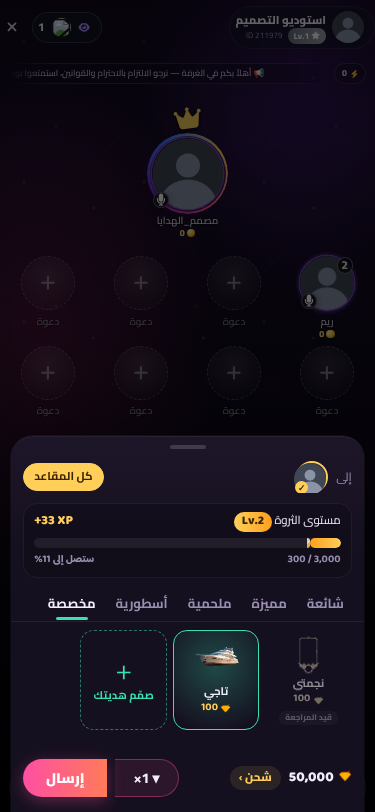
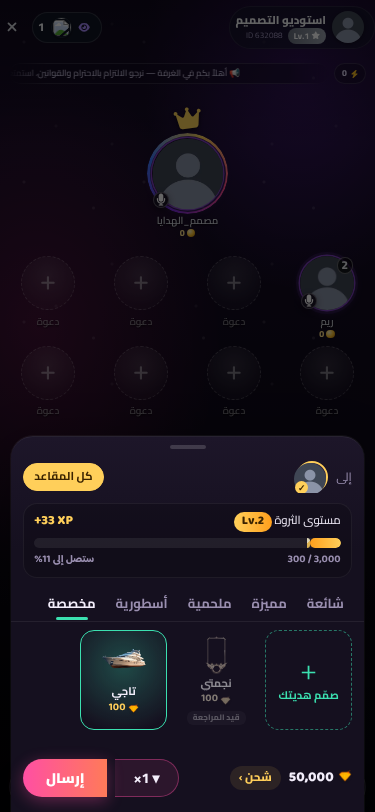
fix(gifts): close double-refund race + review follow-ups (PR #109)
adminReviewCustomGift was find-then-save: it read status, refunded,
then saved the status change afterward, so a double-click or two
admins rejecting at once could refund the design fee twice. Replaced
with a single atomic claim inside a Mongo transaction
(findOneAndUpdate({_id, status:'pending'}, {$set:{...}})) — a second
reviewer gets 409 immediately with no write at all. The refund and
its Transaction entry now run inside that same transaction; sockets,
the bot message, and AdminLog run only after a successful commit, and
the uploaded Cloudinary image is deleted (best effort) once a
rejection is final.

Also: customGiftUpload now catches multer's file-size error itself
instead of falling through to the generic 500 handler, returning a
clear Arabic 400 before any processing; the "+ design your gift" tile
renders first (top-right in RTL, matching the prototype); and the
design modal's pay button no longer wraps to two lines.

Claude-Session: https://claude.ai/code/session_01XrJPY35fNu5NRSzL8WKkMz

diff --git a/server/controllers/customGiftController.js b/server/controllers/customGiftController.js
@@ -4,7 +4,7 @@ const User = require('../models/User');
 const Transaction = require('../models/Transaction');
 const SystemSettings = require('../models/SystemSettings');
 const AdminLog = require('../models/AdminLog');
-const { cloudinary, assertRealType, deleteFromCloudinary } = require('../utils/cloudinary');
+const { cloudinary, assertRealType, deleteFromCloudinary, getPublicIdFromUrl } = require('../utils/cloudinary');
 const { sendBotMessage } = require('../utils/botMessenger');
 
 const MAX_PENDING_PER_USER = 3;
@@ -145,74 +145,100 @@ exports.adminListCustomGifts = async (req, res) => {
     }
 };
 
+// 🛡 إصلاح جذري (مراجعة PR #109 — بند 1 BLOCKER): النسخة السابقة كانت تقرأ status، تسترد
+// الرصيد، ثم تحفظ status لاحقاً — نافذة سباق حقيقية بين القراءة والحفظ. نقرة مزدوجة، أو مديران
+// يرفضان بنفس اللحظة تقريباً، كلاهما يجد status='pending' فيسترد كلاهما الرسم (استرداد مزدوج
+// فعلي). الآن: findOneAndUpdate({_id, status:'pending'}, {$set:{status,...}}) ذرّية واحدة داخل
+// معاملة Mongo — "ادّعاء" الوثيقة والاسترداد (لو رفض) بنفس المعاملة، فيستحيل نجاح طلبين معاً.
+// فشل الادّعاء (null — روجعت مسبقاً) يُرجع 409 فوراً بلا أي كتابة إطلاقاً. الإشعارات
+// (socket/bot/AdminLog) تعمل بعد الالتزام (commit) فقط — best-effort، لا تُسقِط المراجعة نفسها
 exports.adminReviewCustomGift = async (req, res) => {
     try {
         const { id } = req.params;
         const { action, reason } = req.body; // action: 'approve' | 'reject'
-
-        const customGift = await CustomGift.findById(id);
-        if (!customGift) return res.status(404).json({ status: 'fail', message: 'الهدية غير موجودة' });
-        if (customGift.status !== 'pending') {
-            return res.status(400).json({ status: 'fail', message: 'تمت مراجعة هذي الهدية مسبقاً' });
-        }
-
-        const io = req.app.get('socketio');
-        const owner = await User.findById(customGift.owner);
-
-        if (action === 'approve') {
-            customGift.status = 'approved';
-        } else if (action === 'reject') {
-            customGift.status = 'rejected';
-            customGift.rejectReason = reason || 'لم يُحدد سبب';
-            // ✅ استرداد رسم التصميم فوراً عند الرفض — نفس نمط reviewWithdrawal بالضبط
-            if (owner) {
-                const updatedOwner = await User.findByIdAndUpdate(
-                    owner._id, { $inc: { coins: customGift.createCost } }, { new: true }
-                );
-                await Transaction.create({
-                    user: owner._id, type: 'custom_gift_refund', amount: customGift.createCost, currency: 'coins',
-                    status: 'completed', description: `استرداد رسم تصميم هدية مرفوضة: ${customGift.name}`,
-                    processedBy: req.admin._id, processedAt: new Date()
-                });
-                if (io && updatedOwner.socketId) {
-                    io.to(updatedOwner.socketId).emit('coinsUpdated', { newCoins: updatedOwner.coins });
-                }
-            }
-        } else {
+        if (action !== 'approve' && action !== 'reject') {
             return res.status(400).json({ status: 'fail', message: 'إجراء غير صالح' });
         }
+        const rejectReason = action === 'reject' ? (reason || 'لم يُحدد سبب') : null;
 
-        customGift.reviewedBy = req.admin._id;
-        customGift.reviewedAt = new Date();
-        await customGift.save();
+        const session = await mongoose.startSession();
+        let claim = null;
+        let updatedOwner = null;
+        try {
+            await session.withTransaction(async () => {
+                claim = await CustomGift.findOneAndUpdate(
+                    { _id: id, status: 'pending' },
+                    {
+                        $set: {
+                            status: action === 'approve' ? 'approved' : 'rejected',
+                            rejectReason,
+                            reviewedBy: req.admin._id,
+                            reviewedAt: new Date()
+                        }
+                    },
+                    { new: true, session }
+                );
+                if (!claim) {
+                    throw Object.assign(new Error('تمت مراجعة هذي الهدية مسبقاً'), { code: 'ALREADY_REVIEWED' });
+                }
+
+                if (action === 'reject') {
+                    // ✅ استرداد رسم التصميم ذرّياً بنفس المعاملة — نفس نمط reviewWithdrawal
+                    updatedOwner = await User.findByIdAndUpdate(
+                        claim.owner, { $inc: { coins: claim.createCost } }, { new: true, session }
+                    );
+                    await Transaction.create([{
+                        user: claim.owner, type: 'custom_gift_refund', amount: claim.createCost, currency: 'coins',
+                        status: 'completed', description: `استرداد رسم تصميم هدية مرفوضة: ${claim.name}`,
+                        processedBy: req.admin._id, processedAt: new Date()
+                    }], { session });
+                }
+            });
+        } catch (txError) {
+            if (txError.code === 'ALREADY_REVIEWED') {
+                return res.status(409).json({ status: 'fail', message: txError.message });
+            }
+            throw txError;
+        } finally {
+            await session.endSession();
+        }
 
         await AdminLog.logAction({
             admin: req.admin._id,
             action: action === 'approve' ? 'approve_custom_gift' : 'reject_custom_gift',
-            targetUser: customGift.owner,
+            targetUser: claim.owner,
             targetEntity: 'gift',
-            entityId: customGift._id,
-            details: { name: customGift.name, reason: customGift.rejectReason || null },
+            entityId: claim._id,
+            details: { name: claim.name, reason: claim.rejectReason || null },
             severity: action === 'reject' ? 'warning' : 'info',
             ipAddress: req.ip
         });
 
-        if (io && owner?.socketId) {
-            io.to(owner.socketId).emit('customGiftStatusUpdated', {
-                customGiftId: customGift._id,
-                status: customGift.status,
-                reason: customGift.rejectReason || null
-            });
-        }
-        if (owner) {
-            await sendBotMessage(io, owner._id,
-                action === 'approve'
-                    ? `✅ تمت الموافقة على هديتك المخصّصة "${customGift.name}" — أصبحت قابلة للإرسال الآن!`
-                    : `❌ تم رفض هديتك المخصّصة "${customGift.name}". السبب: ${customGift.rejectReason}\nتم إرجاع رسم التصميم (${customGift.createCost} كوينز) لرصيدك.`
-            );
+        // ✅ بند 2: حذف صورة Cloudinary اليتيمة بعد الالتزام مباشرة — best effort صراحةً
+        // (الهدية رُفضت واسُترد رسمها بالفعل، فشل الحذف هنا لا يستحق إفشال الاستجابة كلها)
+        if (action === 'reject') {
+            const publicId = getPublicIdFromUrl(claim.imageUrl);
+            if (publicId) await deleteFromCloudinary(publicId);
         }
 
-        res.status(200).json({ status: 'success', message: 'تم تحديث حالة الهدية', data: { customGift } });
+        const io = req.app.get('socketio');
+        // ✅ لـreject: نفس وثيقة المالك المُحدَّثة بالفعل بالمعاملة (رصيد صحيح جاهز) — لا قراءة
+        // إضافية. لـapprove: قراءة خفيفة فقط لـsocketId (لا تغيير رصيد إطلاقاً هنا)
+        const owner = action === 'reject' ? updatedOwner : await User.findById(claim.owner).select('socketId');
+
+        if (io && owner?.socketId) {
+            if (action === 'reject') io.to(owner.socketId).emit('coinsUpdated', { newCoins: owner.coins });
+            io.to(owner.socketId).emit('customGiftStatusUpdated', {
+                customGiftId: claim._id, status: claim.status, reason: claim.rejectReason || null
+            });
+        }
+        await sendBotMessage(io, claim.owner,
+            action === 'approve'
+                ? `✅ تمت الموافقة على هديتك المخصّصة "${claim.name}" — أصبحت قابلة للإرسال الآن!`
+                : `❌ تم رفض هديتك المخصّصة "${claim.name}". السبب: ${claim.rejectReason}\nتم إرجاع رسم التصميم (${claim.createCost} كوينز) لرصيدك.`
+        );
+
+        res.status(200).json({ status: 'success', message: 'تم تحديث حالة الهدية', data: { customGift: claim } });
     } catch (error) {
         console.error('[ERROR] in adminReviewCustomGift:', error);
         res.status(500).json({ status: 'error', message: 'حدث خطأ في الخادم' });

diff --git a/server/controllers/__tests__/customGiftController.test.js b/server/controllers/__tests__/customGiftController.test.js
@@ -9,7 +9,8 @@ jest.mock('../fanClubController', () => ({ awardFanPoints: jest.fn() }));
 jest.mock('../../utils/cloudinary', () => ({
     cloudinary: { uploader: { upload_stream: jest.fn() } },
     assertRealType: jest.fn(() => 'image/png'),
-    deleteFromCloudinary: jest.fn().mockResolvedValue(undefined)
+    deleteFromCloudinary: jest.fn().mockResolvedValue(undefined),
+    getPublicIdFromUrl: jest.fn((url) => (url ? 'fakePublicId' : null))
 }));
 
 const mongoose = require('mongoose');
@@ -198,43 +199,51 @@ describe('customGiftController.createCustomGift', () => {
 // adminReviewCustomGift — موافقة/رفض الإدارة
 // =====================================================
 describe('customGiftController.adminReviewCustomGift', () => {
+    // 🐛 نفس سبب mockClear بوصف createCustomGift أعلاه — deleteFromCloudinary جاء من
+    // jest.mock(factory) لا jest.spyOn، فلا يُصفِّره restoreAllMocks بين الاختبارات
+    beforeEach(() => deleteFromCloudinary.mockClear());
     afterEach(() => jest.restoreAllMocks());
 
-    function makeCustomGiftDoc(overrides = {}) {
-        const doc = {
-            _id: 'cg1', owner: 'u1', name: 'هدية', status: 'pending', createCost: 500,
-            rejectReason: null, reviewedBy: null, reviewedAt: null,
-            save: jest.fn().mockResolvedValue(undefined),
-            ...overrides
-        };
-        return doc;
+    // 🛡 مراجعة PR #109 (بند 1 BLOCKER): يحاكي الادّعاء الذرّي الحقيقي —
+    // findOneAndUpdate({_id, status:'pending'}, ...) ينجح فقط لو status الحالية بالـdb لا تزال
+    // مطابقة لما بالفلتر، ويكتب التحديث بنفس اللحظة (محاكاة ذرّية حقيقية — لا نافذة سباق بين
+    // القراءة والكتابة، تماماً كما تضمنه findOneAndUpdate الحقيقية بـMongo)
+    function wireReviewMocks(db, owner) {
+        jest.spyOn(mongoose, 'startSession').mockResolvedValue(makeFakeSession());
+        jest.spyOn(CustomGift, 'findOneAndUpdate').mockImplementation((filter, update) => {
+            if (db.cg._id !== filter._id || db.cg.status !== filter.status) return chainable(null);
+            Object.assign(db.cg, update.$set);
+            return chainable({ ...db.cg });
+        });
+        jest.spyOn(User, 'findByIdAndUpdate').mockImplementation((id, update) => {
+            if (id !== owner._id) return chainable(null);
+            owner.coins += update.$inc.coins;
+            return chainable({ ...owner });
+        });
+        jest.spyOn(User, 'findById').mockImplementation(() => chainable({ ...owner }));
+        jest.spyOn(Transaction, 'create').mockResolvedValue([{}]);
+        jest.spyOn(AdminLog, 'logAction').mockResolvedValue(undefined);
     }
 
-    test('موافقة: الحالة تصبح approved، بلا أي استرداد كوينز', async () => {
-        const doc = makeCustomGiftDoc();
-        jest.spyOn(CustomGift, 'findById').mockResolvedValue(doc);
+    test('موافقة: الحالة تصبح approved عبر ادّعاء ذرّي واحد، بلا أي استرداد كوينز', async () => {
         const owner = { _id: 'u1', coins: 0, socketId: null };
-        jest.spyOn(User, 'findById').mockResolvedValue(owner);
-        const incSpy = jest.spyOn(User, 'findByIdAndUpdate');
-        jest.spyOn(AdminLog, 'logAction').mockResolvedValue(undefined);
+        const db = { cg: { _id: 'cg1', owner: 'u1', name: 'هدية', status: 'pending', createCost: 500, imageUrl: 'https://x/cg1.webp' } };
+        wireReviewMocks(db, owner);
 
         const req = { params: { id: 'cg1' }, body: { action: 'approve' }, admin: { _id: 'admin1' }, ip: '1.2.3.4', app: { get: () => null } };
         const res = mockRes();
         await customGiftController.adminReviewCustomGift(req, res);
 
-        expect(doc.status).toBe('approved');
-        expect(incSpy).not.toHaveBeenCalled();
+        expect(db.cg.status).toBe('approved');
+        expect(owner.coins).toBe(0); // ✅ لا استرداد إطلاقاً عند الموافقة
         expect(res.status).toHaveBeenCalledWith(200);
+        expect(deleteFromCloudinary).not.toHaveBeenCalled(); // ✅ الصورة تبقى — الهدية مُعتمَدة
     });
 
-    test('رفض: الحالة تصبح rejected، createCost يُرَد للمالك ذرّياً، وقيد Transaction يُسجَّل', async () => {
-        const doc = makeCustomGiftDoc({ createCost: 500 });
-        jest.spyOn(CustomGift, 'findById').mockResolvedValue(doc);
+    test('رفض: الحالة تصبح rejected، createCost يُرَد للمالك ذرّياً، قيد Transaction يُسجَّل، والصورة تُحذَف', async () => {
         const owner = { _id: 'u1', coins: 100, socketId: 'sock1' };
-        jest.spyOn(User, 'findById').mockResolvedValue(owner);
-        jest.spyOn(User, 'findByIdAndUpdate').mockResolvedValue({ ...owner, coins: 600 });
-        const txSpy = jest.spyOn(Transaction, 'create').mockResolvedValue({});
-        jest.spyOn(AdminLog, 'logAction').mockResolvedValue(undefined);
+        const db = { cg: { _id: 'cg1', owner: 'u1', name: 'هدية', status: 'pending', createCost: 500, imageUrl: 'https://res.cloudinary.com/x/image/upload/v1/custom_gifts/u1_1.webp' } };
+        wireReviewMocks(db, owner);
         const emit = jest.fn();
         const io = { to: jest.fn(() => ({ emit })) };
 
@@ -242,22 +251,55 @@ describe('customGiftController.adminReviewCustomGift', () => {
         const res = mockRes();
         await customGiftController.adminReviewCustomGift(req, res);
 
-        expect(doc.status).toBe('rejected');
-        expect(doc.rejectReason).toBe('غير لائقة');
-        expect(txSpy).toHaveBeenCalledWith(expect.objectContaining({ type: 'custom_gift_refund', amount: 500, user: 'u1' }));
+        expect(db.cg.status).toBe('rejected');
+        expect(db.cg.rejectReason).toBe('غير لائقة');
+        expect(owner.coins).toBe(600);
+        expect(Transaction.create).toHaveBeenCalledWith(
+            [expect.objectContaining({ type: 'custom_gift_refund', amount: 500, user: 'u1' })],
+            expect.anything()
+        );
+        expect(deleteFromCloudinary).toHaveBeenCalledWith('fakePublicId');
         expect(io.to).toHaveBeenCalledWith('sock1');
         expect(emit).toHaveBeenCalledWith('coinsUpdated', { newCoins: 600 });
     });
 
-    test('هدية غير معلّقة بالفعل (روجعت سابقاً): تُرفَض 400 بلا أي تغيير إضافي', async () => {
-        const doc = makeCustomGiftDoc({ status: 'approved' });
-        jest.spyOn(CustomGift, 'findById').mockResolvedValue(doc);
+    test('هدية غير معلّقة بالفعل (روجعت سابقاً): تُرفَض 409 بلا أي تغيير إضافي', async () => {
+        const owner = { _id: 'u1', coins: 100 };
+        const db = { cg: { _id: 'cg1', owner: 'u1', name: 'هدية', status: 'approved', createCost: 500 } };
+        wireReviewMocks(db, owner);
 
         const req = { params: { id: 'cg1' }, body: { action: 'approve' }, admin: { _id: 'admin1' }, ip: '1.2.3.4', app: { get: () => null } };
         const res = mockRes();
         await customGiftController.adminReviewCustomGift(req, res);
 
-        expect(res.status).toHaveBeenCalledWith(400);
-        expect(doc.save).not.toHaveBeenCalled();
+        expect(res.status).toHaveBeenCalledWith(409);
+        expect(owner.coins).toBe(100);
+    });
+
+    // 🛡 طلب صريح (مراجعة PR #109 — بند 1 BLOCKER): نقرة مزدوجة/مديران يرفضان نفس الهدية
+    // بنفس اللحظة تقريباً — يجب أن ينجح واحد فقط (200) ويُرفَض الآخر (409)، واسترداد واحد
+    // فقط بالضبط (لا رصيد مُضاعَف)
+    test('رفضان متزامنان لنفس الهدية: استرداد واحد فقط — لا استرداد مزدوج', async () => {
+        const owner = { _id: 'u1', coins: 0, socketId: 'sock1' };
+        const db = { cg: { _id: 'cg1', owner: 'u1', name: 'هدية', status: 'pending', createCost: 500, imageUrl: 'https://x/cg1.webp' } };
+        wireReviewMocks(db, owner);
+        const io = { to: jest.fn(() => ({ emit: jest.fn() })) };
+
+        const makeReq = () => ({
+            params: { id: 'cg1' }, body: { action: 'reject', reason: 'سبب' },
+            admin: { _id: 'admin1' }, ip: '1.2.3.4', app: { get: () => io }
+        });
+        const res1 = mockRes();
+        const res2 = mockRes();
+
+        await Promise.all([
+            customGiftController.adminReviewCustomGift(makeReq(), res1),
+            customGiftController.adminReviewCustomGift(makeReq(), res2)
+        ]);
+
+        const statuses = [res1.status.mock.calls[0][0], res2.status.mock.calls[0][0]].sort();
+        expect(statuses).toEqual([200, 409]);
+        expect(owner.coins).toBe(500); // ✅ استرداد واحد فقط بالضبط (500)، لا 1000
+        expect(Transaction.create).toHaveBeenCalledTimes(1);
     });
 });

diff --git a/public/js/app.js b/public/js/app.js
@@ -14703,7 +14703,10 @@ async function showRoomGiftModal(roomId, presetTarget = null) {
             pagesEl.innerHTML = '';
             // ✅ طلب صريح (هدايا v2 — المرحلة 4): تبويب "مخصصة" يعرض هدايا المستخدم الحقيقية
             // (معلّقة مُعطَّلة + مُعتمَدة قابلة للإرسال) ثم بلاطة "صمّم هديتك" الفعّالة أخيراً
-            const items = tab === 'custom' ? [...getMyCustomTiles(), { addTile: true }] : (shopData.gifts[tab] || []).slice();
+            // 🐛 إصلاح (مراجعة PR #109 — بند 4): بلاطة "صمّم هديتك" يجب أن تكون أول خلية (أعلى
+            // اليمين بالـRTL، مطابقةً للنموذج الأولي) — .gsheet-pages بـdirection:rtl تملأ
+            // الشبكة من اليمين لليسار بترتيب DOM نفسه، فأول عنصر بالمصفوفة = أول خلية مرئية
+            const items = tab === 'custom' ? [{ addTile: true }, ...getMyCustomTiles()] : (shopData.gifts[tab] || []).slice();
             const n = Math.max(1, Math.ceil(items.length / 8));
             for (let p = 0; p < n; p++) {
                 const pg = document.createElement('div');
@@ -14918,7 +14921,10 @@ function showCustomGiftDesignModal(rules, onCreated) {
     document.getElementById('custom-gift-design-modal')?.remove();
     const designFee = rules.customGiftDesignFee;
     const sendPrice = rules.customGiftSendPrice;
-    const goLabel = (busy) => busy ? 'جارٍ الإرسال...' : `ادفع ${designFee.toLocaleString('en-US')} وأرسل للمراجعة`;
+    // 🐛 إصلاح (مراجعة PR #109 — بند 4): النص الأطول "...وأرسل للمراجعة" كان يلتف لسطرين
+    // بعرض زر ضيّق — نص أقصر (السياق التوضيحي "تُراجَع من الإدارة" موجود أصلاً بالفقرة أعلاه)
+    // + white-space:nowrap بالـCSS (راجع .gsheet-custom-go) كضمان إضافي
+    const goLabel = (busy) => busy ? 'جارٍ الإرسال...' : `ادفع ${designFee.toLocaleString('en-US')} وأرسل`;
 
     const overlay = document.createElement('div');
     overlay.id = 'custom-gift-design-modal';

diff --git a/server/utils/cloudinary.js b/server/utils/cloudinary.js
@@ -71,11 +71,26 @@ const roomCoverUpload = multer({
 
 // 5ج. Multer لصورة الهدية المخصّصة (هدايا v2 — المرحلة 4) — سقف أصغر (2MB) صريح بالطلب،
 // نفس الفلتر المبدئي (الفحص الحاسم assertRealType يبقى بعد الرفع كالعادة، قبل Cloudinary)
-const customGiftUpload = multer({
+const customGiftUploadRaw = multer({
     storage: storage,
     fileFilter: profileImageFilter,
     limits: { fileSize: 2 * 1024 * 1024 } // 2MB
 }).single('giftImage');
+
+// 🐛 إصلاح (مراجعة PR #109 — بند 3): multer يمرّر أخطاءه (كتجاوز 2MB) عبر next(err) الافتراضي —
+// تصل للمعالج العام (globalErrorHandler بـserver/middleware/errorHandlers.js) الذي يُرجعها 500
+// برسالة MulterError الإنجليزية الخام ("File too large") لا 400 عربي واضح قبل أي معالجة فعلية.
+// يُلتقَط هنا صراحةً (نمط multer الموثَّق لتخصيص رسائل الخطأ) ويُترجَم لرسالة عربية بـ400 —
+// قبل الوصول لـcreateCustomGift بالكامل (لا أي قراءة/معالجة لاحقة لملف مرفوض الحجم)
+function customGiftUpload(req, res, next) {
+    customGiftUploadRaw(req, res, (err) => {
+        if (!err) return next();
+        if (err.code === 'LIMIT_FILE_SIZE') {
+            return res.status(400).json({ status: 'fail', message: 'حجم الصورة يجب ألا يتجاوز 2 ميجابايت' });
+        }
+        return res.status(400).json({ status: 'fail', message: err.message || 'تعذّر رفع الصورة' });
+    });
+}
 
 // 6. Multer للدردشات
 const chatUpload = multer({

diff --git a/public/src/input.css b/public/src/input.css
@@ -6968,6 +6968,10 @@ body.in-voice-room .voice-seat.duel-lose { opacity: .45; filter: grayscale(.85) 
 .gsheet-custom-row #cg-cancel { background: rgba(255, 255, 255, 0.06); color: var(--g-fg, #f3eefb); }
 .gsheet-custom-go { background: linear-gradient(90deg, #3be0b0, #43d9ff); color: #062a22; }
 .gsheet-custom-go:disabled { opacity: 0.45; cursor: not-allowed; }
+/* 🐛 إصلاح (مراجعة PR #109 — بند 4): نص الزر يجب ألا يلتف لسطرين أبداً — نص أقصر بالجافاسكريبت
+   (راجع goLabel بـshowCustomGiftDesignModal) + white-space:nowrap وحجم خط متجاوب كضمان مزدوج
+   بأضيق العروض (مثال: أرقام رسم تصميم كبيرة جداً بمنصّة بأسعار مختلفة) */
+.gsheet-custom-go { white-space: nowrap; font-size: clamp(11.5px, 3.6vw, 13.5px); padding: 0 4px; }
 
 /* =====================================================================
    🔥 هدايا v2 — المرحلة 3: زر الكومبو العائم + النار + الانفجارات + الشريط

diff --git a/public/dist/style.css b/public/dist/style.css
@@ -18167,6 +18167,16 @@ body.in-voice-room .voice-seat.duel-lose {
   cursor: not-allowed;
 }
 
+/* 🐛 إصلاح (مراجعة PR #109 — بند 4): نص الزر يجب ألا يلتف لسطرين أبداً — نص أقصر بالجافاسكريبت
+   (راجع goLabel بـshowCustomGiftDesignModal) + white-space:nowrap وحجم خط متجاوب كضمان مزدوج
+   بأضيق العروض (مثال: أرقام رسم تصميم كبيرة جداً بمنصّة بأسعار مختلفة) */
+
+.gsheet-custom-go {
+  white-space: nowrap;
+  font-size: clamp(11.5px, 3.6vw, 13.5px);
+  padding: 0 4px;
+}
+
 /* =====================================================================
    🔥 هدايا v2 — المرحلة 3: زر الكومبو العائم + النار + الانفجارات + الشريط
    الجانبي + الطيران + الأسطورية بملء الشاشة. منفصلة تماماً عن .gsheet (الشيت
